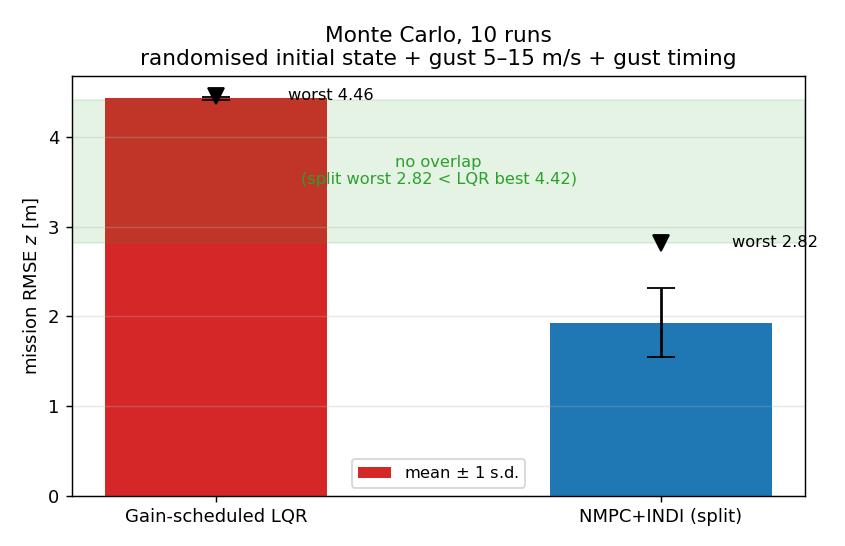
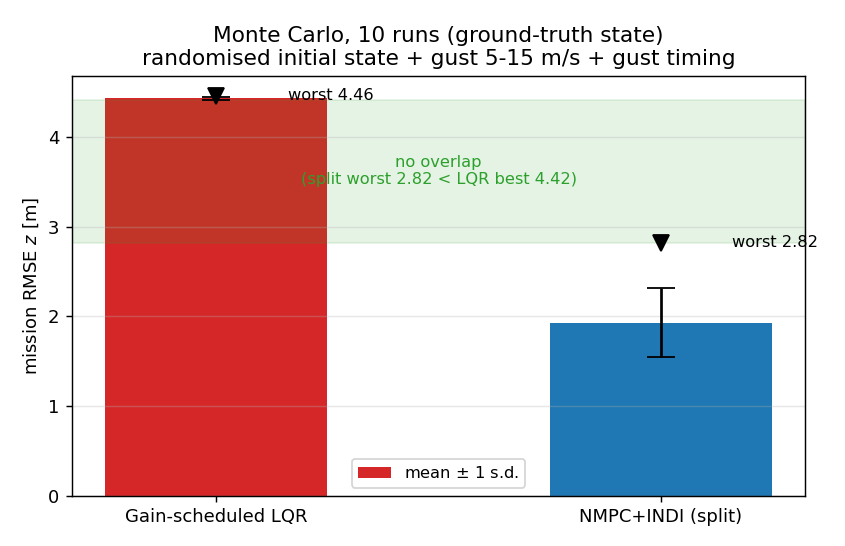
발표 그림 라벨에 시뮬 조건 명시 (참값 + IPOPT)
kj 확인: 센서 오차 없이 참값으로, IPOPT 방식으로 돌린다.
코드를 대조하니 이미 그 조건이었다:
  · VirtualNMPC 는 ca.nlpsol('vnmpc', 'ipopt', ...)  -> IPOPT 확인
  · plot_proposal_figures 에 추정기/센서모델 없음. plant.simulate 가 참 상태를
    제어기에 직접 준다 -> 참값 제어 확인
  · acados 는 시뮬에 안 쓴다. 그림 B 의 acados 수치는 기록된 벤치마크다
  · 그림 C 의 MC 도 MISSION_ANALYSIS '1. 단일 미션 결과 (참값 제어)' 계열이다

읽는 사람이 헷갈리지 않게 라벨에 못박았다:
  A  'ground-truth state, IPOPT NMPC, started from trim'
  B  'this study runs IPOPT (on the budget); acados is the path to hardware'
     (기존 문구는 acados 를 쓰는 것처럼 읽힐 수 있었다)
  C  'Monte Carlo, 10 runs (ground-truth state)'
모듈 docstring 에도 시뮬 조건을 적었다.

Changed region(s): [[0.1538, 0.0311, 0.8923, 0.1245]]

diff --git a/control/plot_proposal_figures.py b/control/plot_proposal_figures.py
@@ -1,5 +1,10 @@
 """연구제안 3분 발표용 그림 3장.
 
+시뮬 조건 (연구계획서 예비단계와 동일):
+  · **참값 제어** — 센서모델·상태추정기 없음. plant 가 참 상태를 제어기에 직접 준다
+  · **IPOPT** — VirtualNMPC 는 ca.nlpsol(..., 'ipopt', ...). acados 미사용
+    (그림 B 의 acados 수치는 기록된 벤치마크이지 이 시뮬의 솔버가 아니다)
+
     python3 -m control.plot_proposal_figures
 
   A. results/prop_fig_gust.png    슬라이드 1 — 강외란에서 스케줄 선형이 무너진다
@@ -94,8 +99,8 @@ def fig_gust():
     ax[1].set_title("Gap widens with gust strength")
     ax[1].set_xticks(GUSTS); ax[1].legend(fontsize=9); ax[1].grid(alpha=.3)
 
-    fig.suptitle(f"Pure gust rejection at {V_CRUISE:.0f} m/s cruise "
-                 "(started from trim) — re-simulated", fontsize=12)
+    fig.suptitle(f"Pure gust rejection at {V_CRUISE:.0f} m/s cruise — "
+                 "ground-truth state, IPOPT NMPC, started from trim", fontsize=12)
     fig.tight_layout(rect=[0, 0, 1, 0.93])
     fig.savefig("results/prop_fig_gust.png", dpi=130); plt.close(fig)
     return peaks
@@ -120,7 +125,7 @@ def fig_solver():
     ax.set_xticks(x); ax.set_xticklabels([b[0] for b in bars], fontsize=9)
     ax.set_ylabel("solve time [ms]  (log)")
     ax.set_title("Why nonlinear is feasible now\n"
-                 "IPOPT sits on the budget (p95 over it); acados clears it by 53×")
+                 "this study runs IPOPT (on the budget); acados is the path to hardware")
     for xi, (m, p) in enumerate(zip(med, p95)):
         ax.text(xi, p * 1.25, f"{m:.2f} / {p:.2f}", ha="center", fontsize=8.5)
     ax.legend(loc="lower left", fontsize=9); ax.grid(alpha=.3, axis="y", which="both")
@@ -149,8 +154,8 @@ def fig_mc():
             ha="center", va="center", fontsize=9, color="C2")
     ax.set_xticks(x); ax.set_xticklabels([d[0] for d in data])
     ax.set_ylabel("mission RMSE $z$ [m]")
-    ax.set_title("Monte Carlo, 10 runs\n"
-                 "randomised initial state + gust 5–15 m/s + gust timing")
+    ax.set_title("Monte Carlo, 10 runs (ground-truth state)\n"
+                 "randomised initial state + gust 5-15 m/s + gust timing")
     ax.grid(alpha=.3, axis="y"); ax.legend(fontsize=9)
     fig.tight_layout(); fig.savefig("results/prop_fig_mc.png", dpi=130)
     plt.close(fig)
